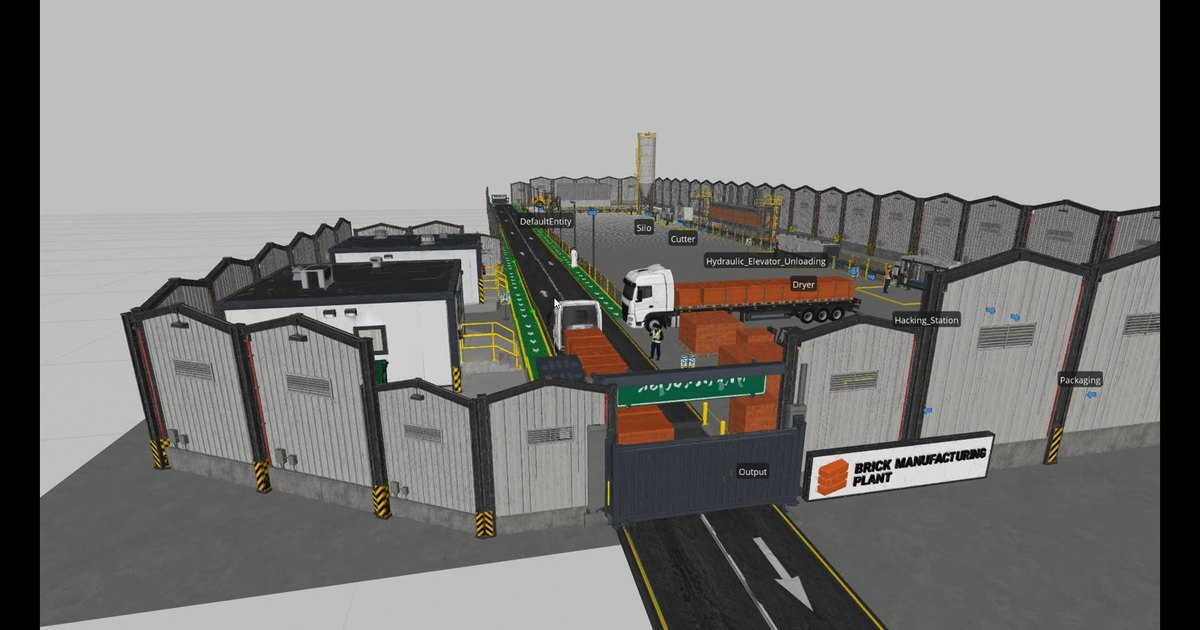
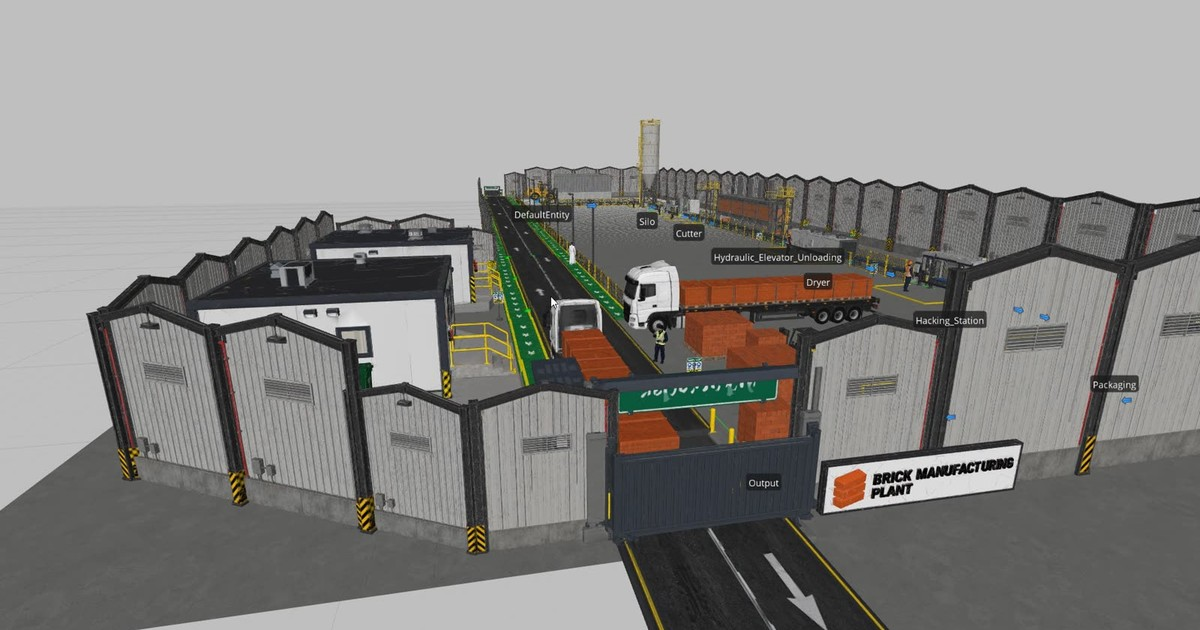
Add files via upload

diff --git a/projects/heavy-clay/index.html b/projects/heavy-clay/index.html
@@ -12,7 +12,7 @@
 <meta property="og:title" content="From Downtime to Decisions | Abdulmajeed A. Alotaibi">
 <meta property="og:description" content="A heavy clay brick line after Lean Six Sigma, and the question of what to fix next. Real plant data, a validated Simio model and seven What-If scenarios.">
 <meta property="og:url" content="https://aa-alotaibi.github.io/projects/heavy-clay/">
-<meta property="og:image" content="https://aa-alotaibi.github.io/projects/heavy-clay/img/og-image.jpg">
+<meta property="og:image" content="https://aa-alotaibi.github.io/projects/heavy-clay/img/og-image.jpg?v=2">
 <meta property="og:image:width" content="1200">
 <meta property="og:image:height" content="630">
 <meta property="og:image:alt" content="3D Simio model of a heavy clay brick production line">
